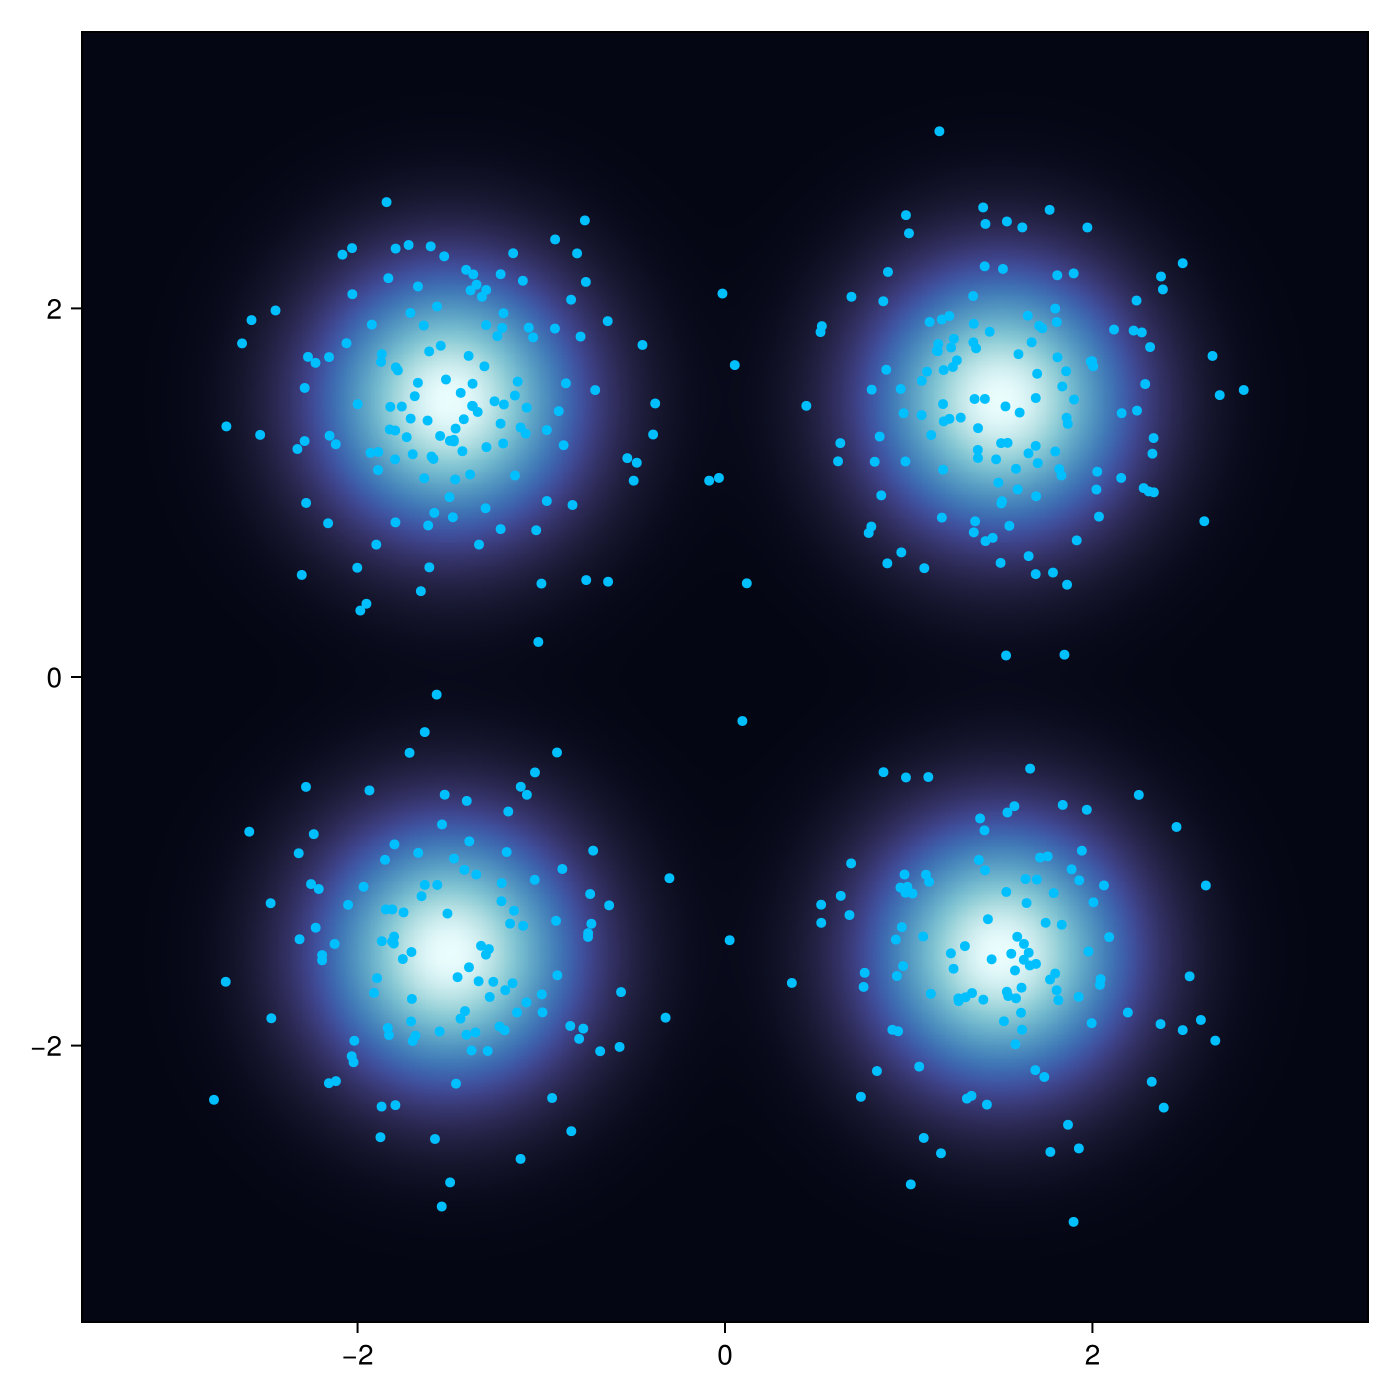
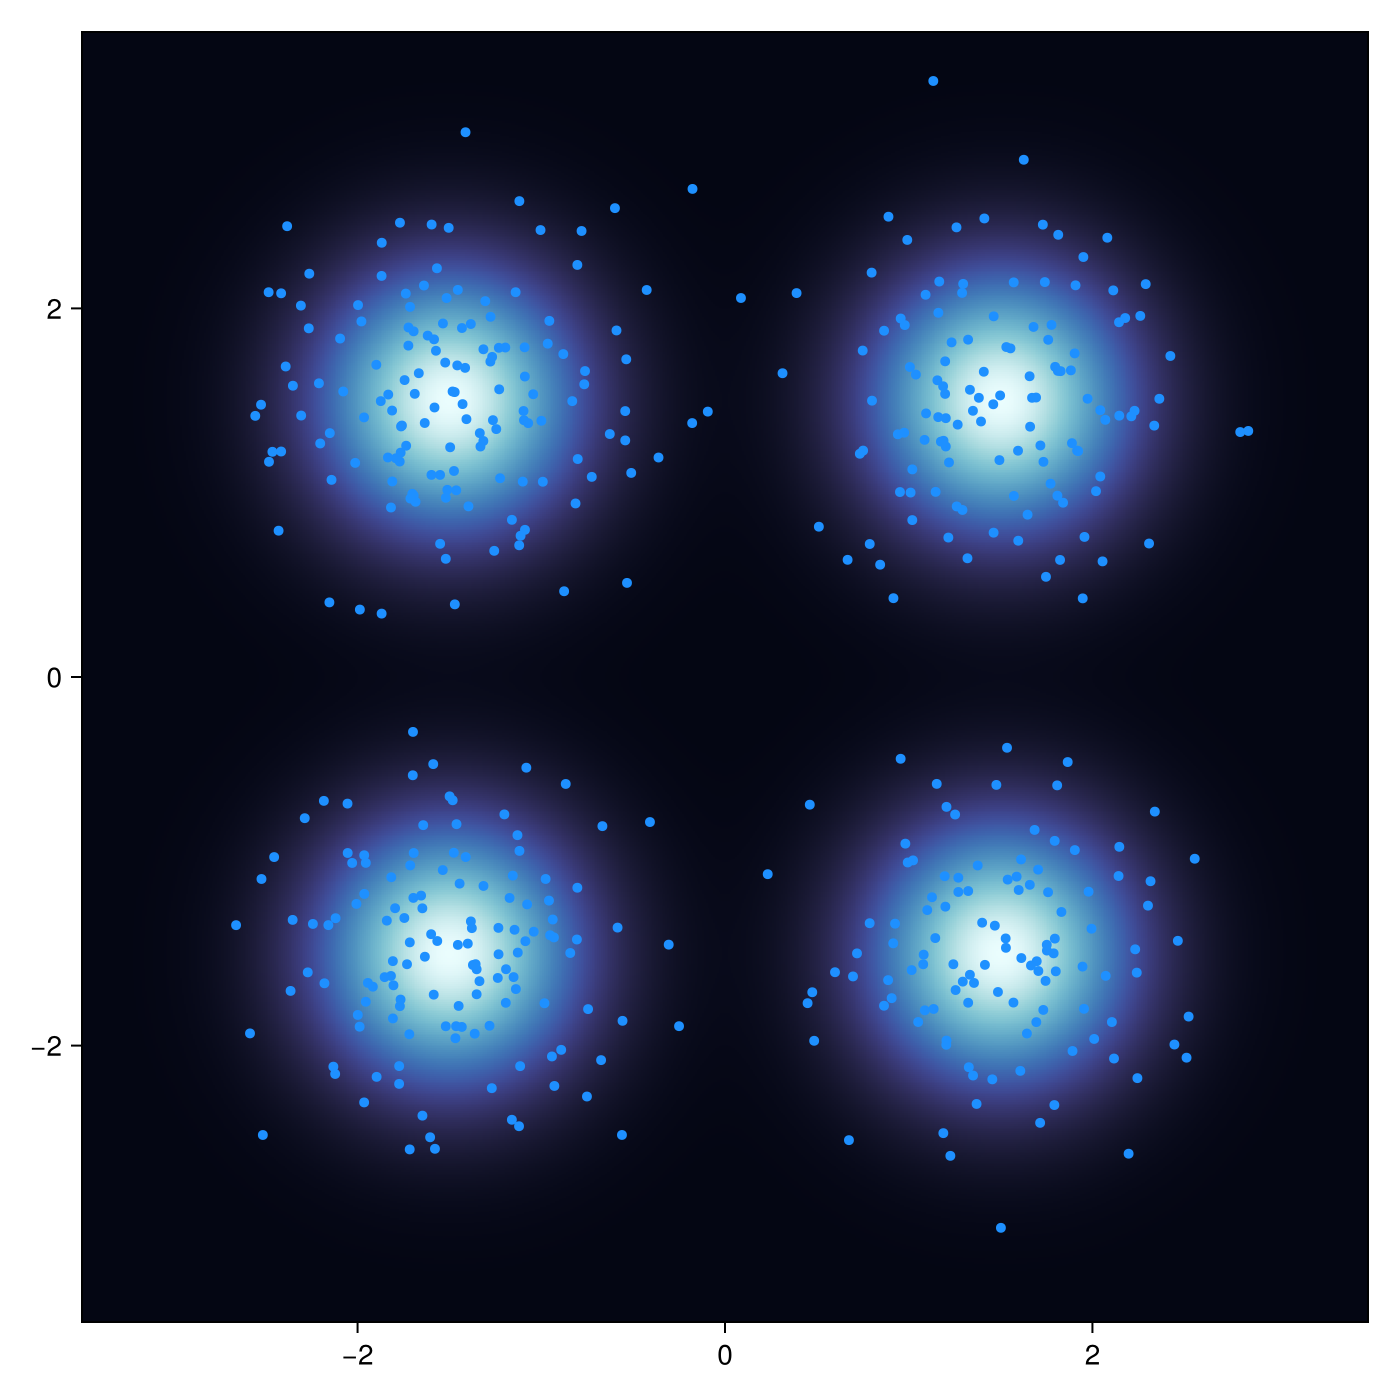
updating examples

diff --git a/README.md b/README.md
@@ -115,7 +115,7 @@ end
 Next we define the inference dynamics by choosing a custom kernel. It can be any kernel provided by [KernelFunctions.jl](https://github.com/JuliaGaussianProcesses/KernelFunctions.jl). Here we use a scaled version of the squared exponential kernel:
 ```julia
 kernel = SqExponentialKernel() ∘ ScaleTransform(2.0)
-dynamics = SVGD(K=kernel, η=0.5, batchsize=16)
+dynamics = SVGD(K=kernel, η=0.4, batchsize=16)
 ```
 
 Now we create a set of particles that represent samples:
@@ -134,9 +134,17 @@ S = get_samples(pc)
 Obviously the initial samples does not match the target density. Now we run the `SVGD` dynamics to adjust the samples:
 
 ```julia
-infer!(pc, state; iters=100)
+report = infer!(pc, state; iters=150, track=Dict(
+    "KSD" => KernelizedSteinDiscrepancy(kernel, 64)
+));
 S = get_samples(pc)
 ```  
+
+The above code also tracks the value of Kernelized Stein Discrepancy(KSD) during inference. Since KSD can be expensive to compute, we use a Monte Carlo estimation with `64` particles sampled at each step. After inference we can access the tracked values using `report.metrics["KSD"]` and plot it:
+
+<p align="center">
+    <img src="examples/mixture/KSD.png" width="512">
+</p>
 
 Finally we can check the terminal position of particles:
 <p align="center">
